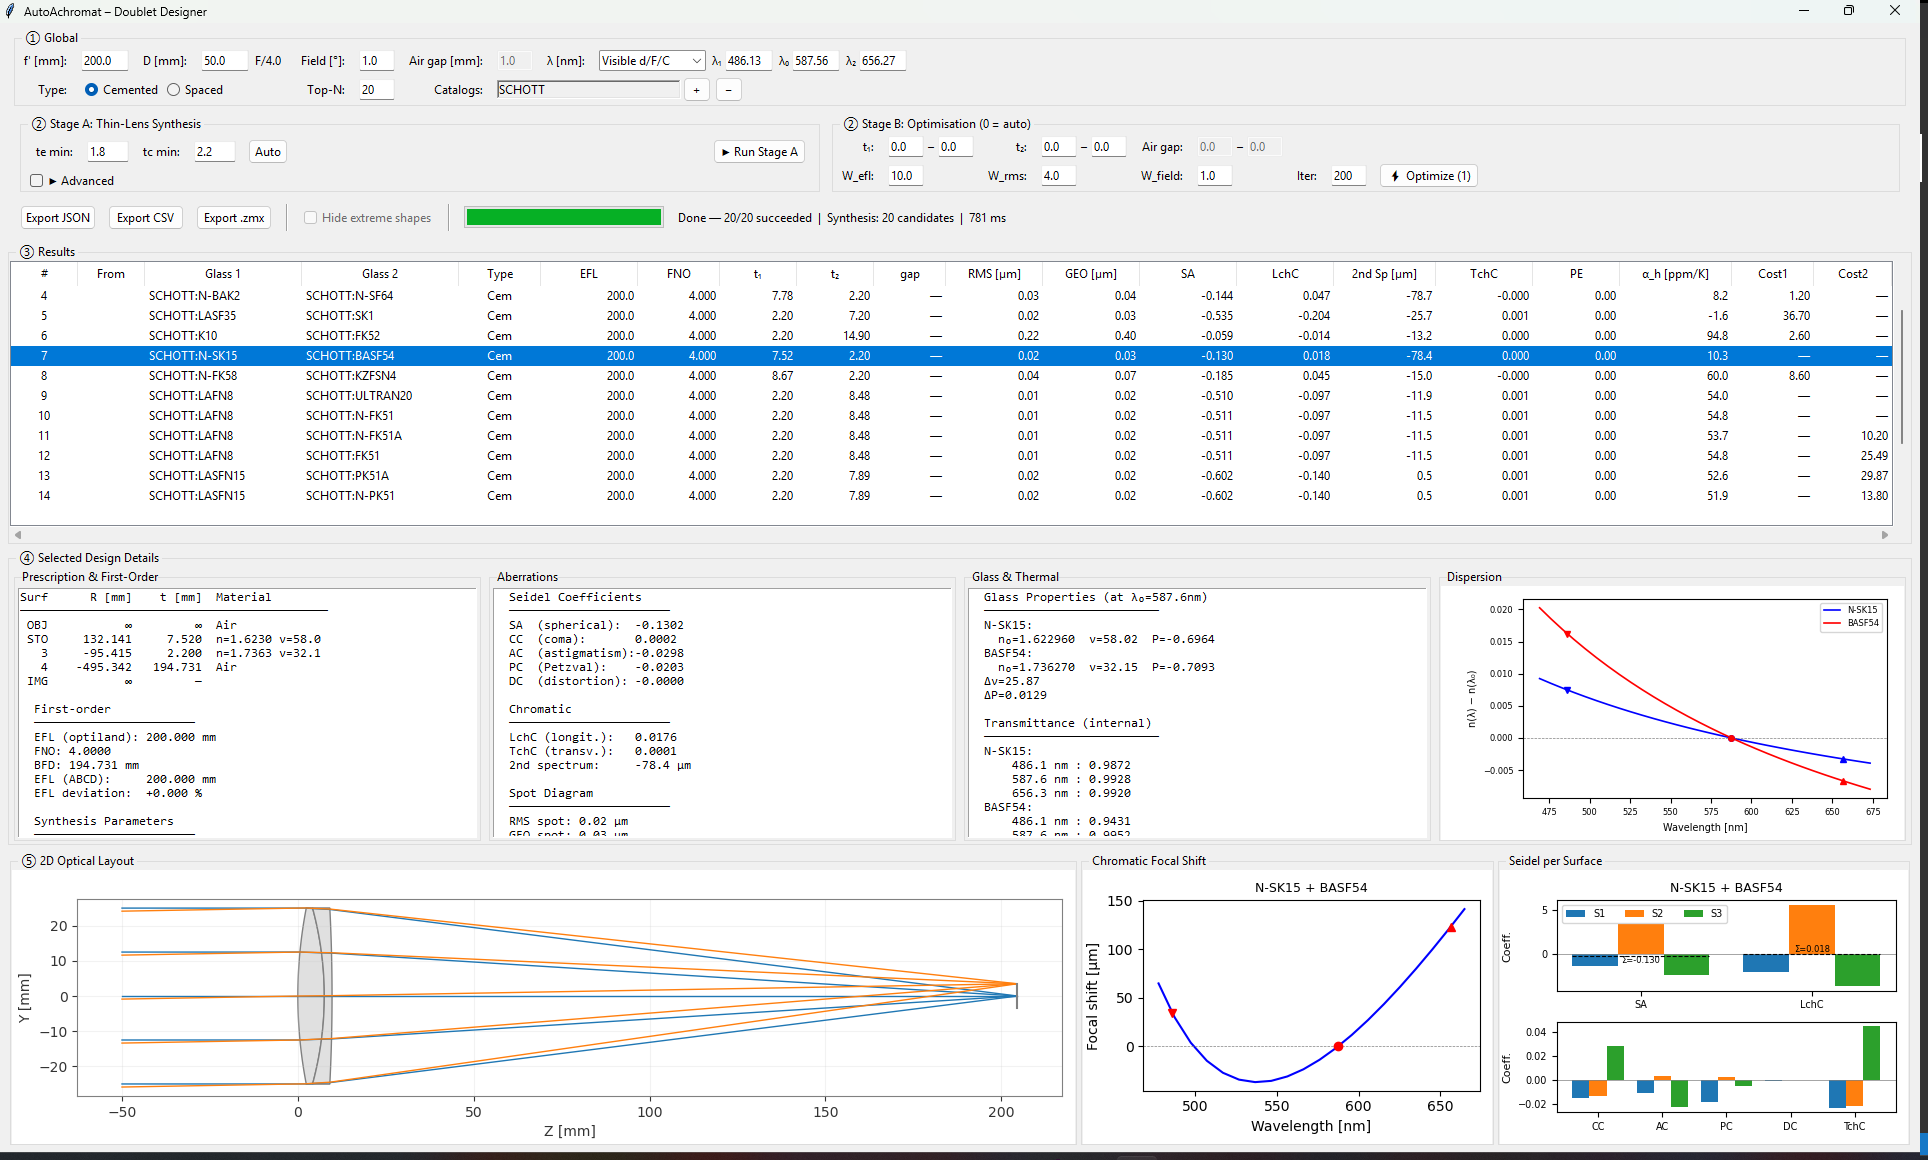
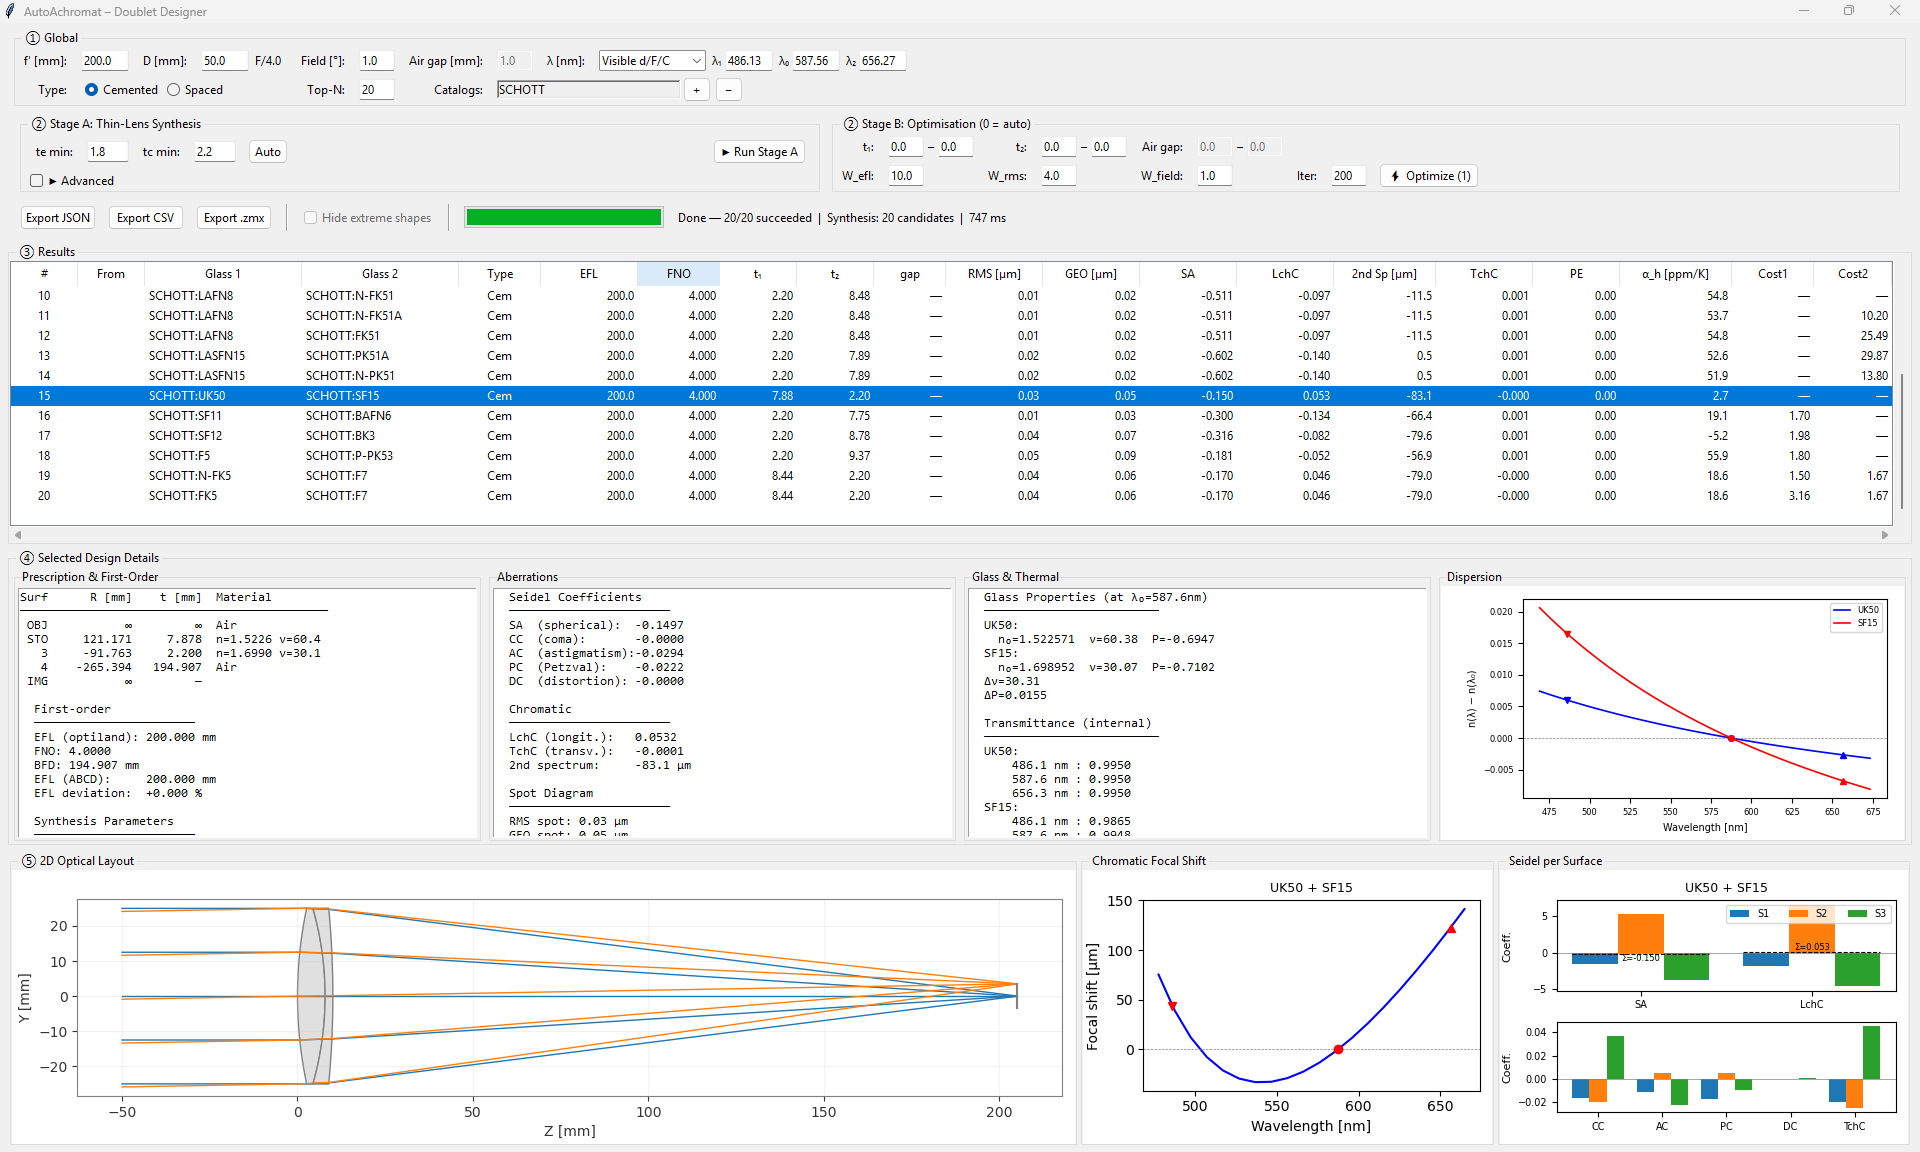
feat: Enhance README with improved formatting and additional configuration details for Stage A

diff --git a/README.md b/README.md
@@ -2,18 +2,23 @@
 
 Automated achromatic doublet lens designer. Generates cemented and air-spaced doublet initial structures from glass catalogs, evaluates optical performance via ray tracing, and exports designs for further optimization in Zemax or other optical design software.
 
-| Cemented Doublet | Air-Spaced Doublet |
-|---|---|
-| ![Cemented](example/cemented_example.png) | ![Spaced](example/spaced_example.png) |
+**Cemented Doublet**
+
+![Cemented doublet example](example/cemented_example.png)
+
+**Air-Spaced Doublet**
+
+![Air-spaced doublet example](example/spaced_example.png)
 
 ## What It Does
 
 1. Reads industry-standard AGF glass catalogs (SCHOTT, OHARA, CDGM, etc.)
 2. Automatically searches all valid glass pair combinations
-3. Produces thick-lens prescriptions with manufacturing-feasible thicknesses
-4. Evaluates each design: spot size, Seidel aberrations, chromatic errors, secondary spectrum, thermal stability
-5. Optionally refines designs via built-in numerical optimizer (optiland, experimental)
-6. Exports the best candidates as `.zmx` (Zemax), JSON, or CSV
+3. Supports user-defined aberration targets (spherical aberration, coma, chromatic) via Advanced settings
+4. Produces thick-lens prescriptions with manufacturing-feasible thicknesses
+5. Evaluates each design: spot size, Seidel aberrations, chromatic errors, secondary spectrum, thermal stability
+6. Optionally refines designs via built-in numerical optimizer (optiland, experimental)
+7. Exports the best candidates as `.zmx` (Zemax), JSON, or CSV
 
 ## Installation
 
@@ -33,11 +38,18 @@ python -m autoachromat.gui
 
 ### Step 1: Set Parameters
 
-Configure focal length, aperture, wavelengths (visible or IR presets available), and glass catalogs in the Global panel.
+In the Global panel, configure:
+- **f', D** — focal length and aperture (F/# displayed automatically)
+- **Wavelengths** — select from presets (Visible, NIR, SWIR, MWIR, LWIR) or enter manually in nm
+- **Field angle** — used for off-axis aberration evaluation in Stage A and as an optimization target in Stage B
+- **Air gap** — fixed during Stage A synthesis, becomes a free variable in Stage B (spaced doublets only)
+- **Catalogs** — load one or more AGF glass catalog files
 
 ### Step 2: Run Stage A
 
 The system automatically sets minimum edge/center thicknesses (te min, tc min) based on the aperture diameter according to standard manufacturing tables. You can override these values for specific manufacturing requirements, or click **Auto** to reset to the recommended defaults.
+
+Click **Advanced** to set custom aberration targets (SA, Coma, LCA — default 0 = fully corrected) and screening thresholds (minimum Abbe number difference, maximum PE).
 
 Click **Run Stage A** to search all glass pair combinations. Results appear in a sortable table ranked by aberration performance.
 
